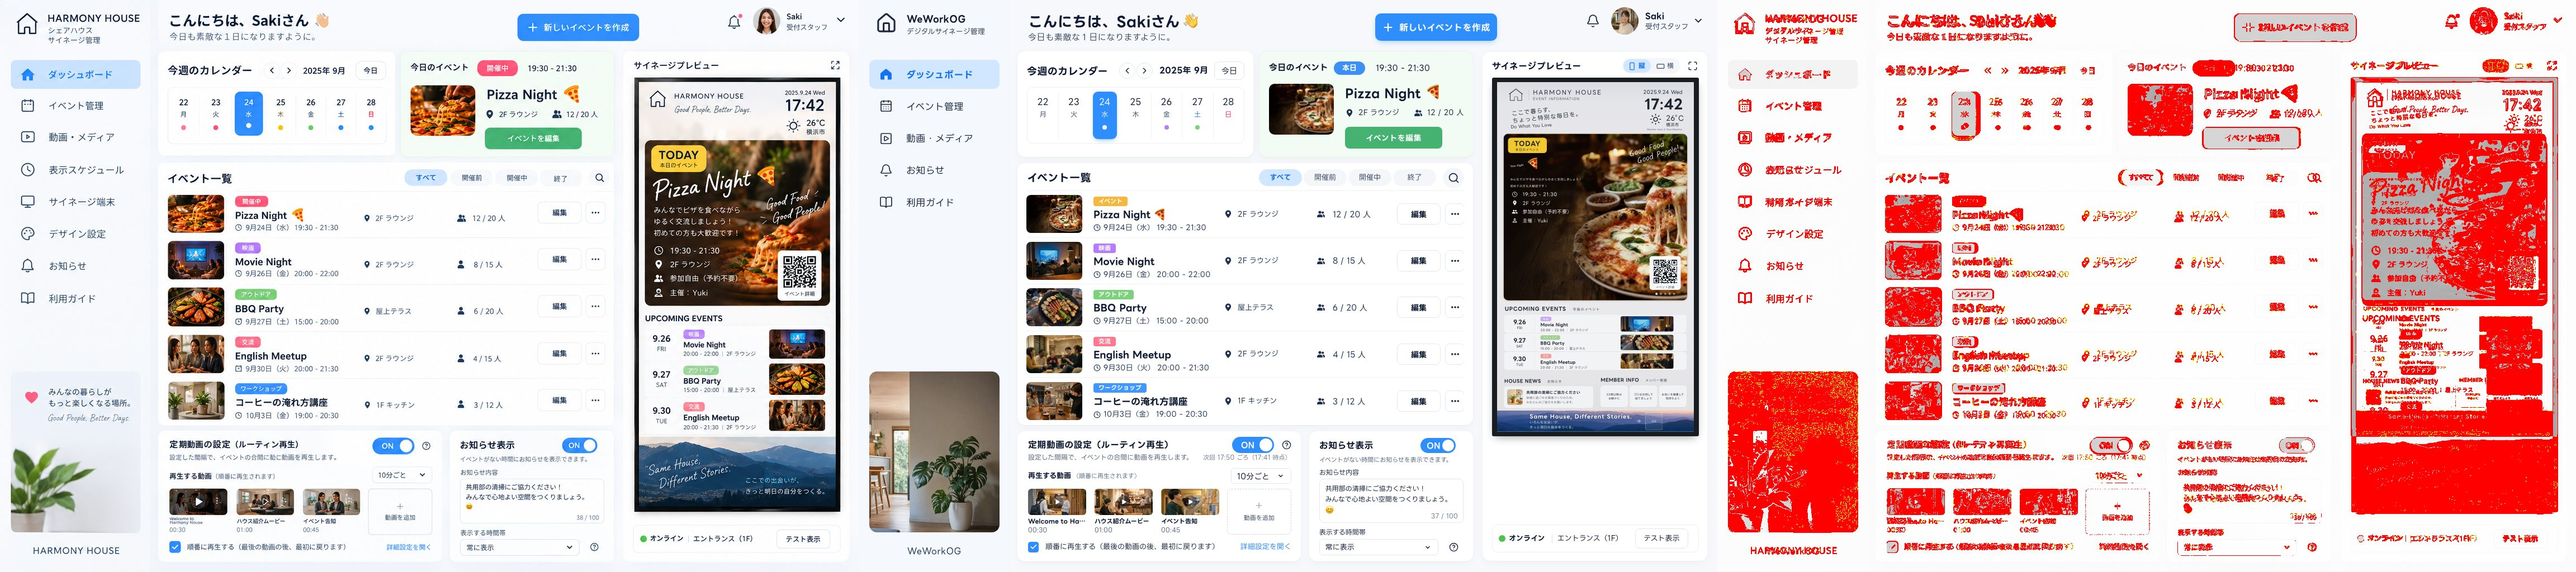
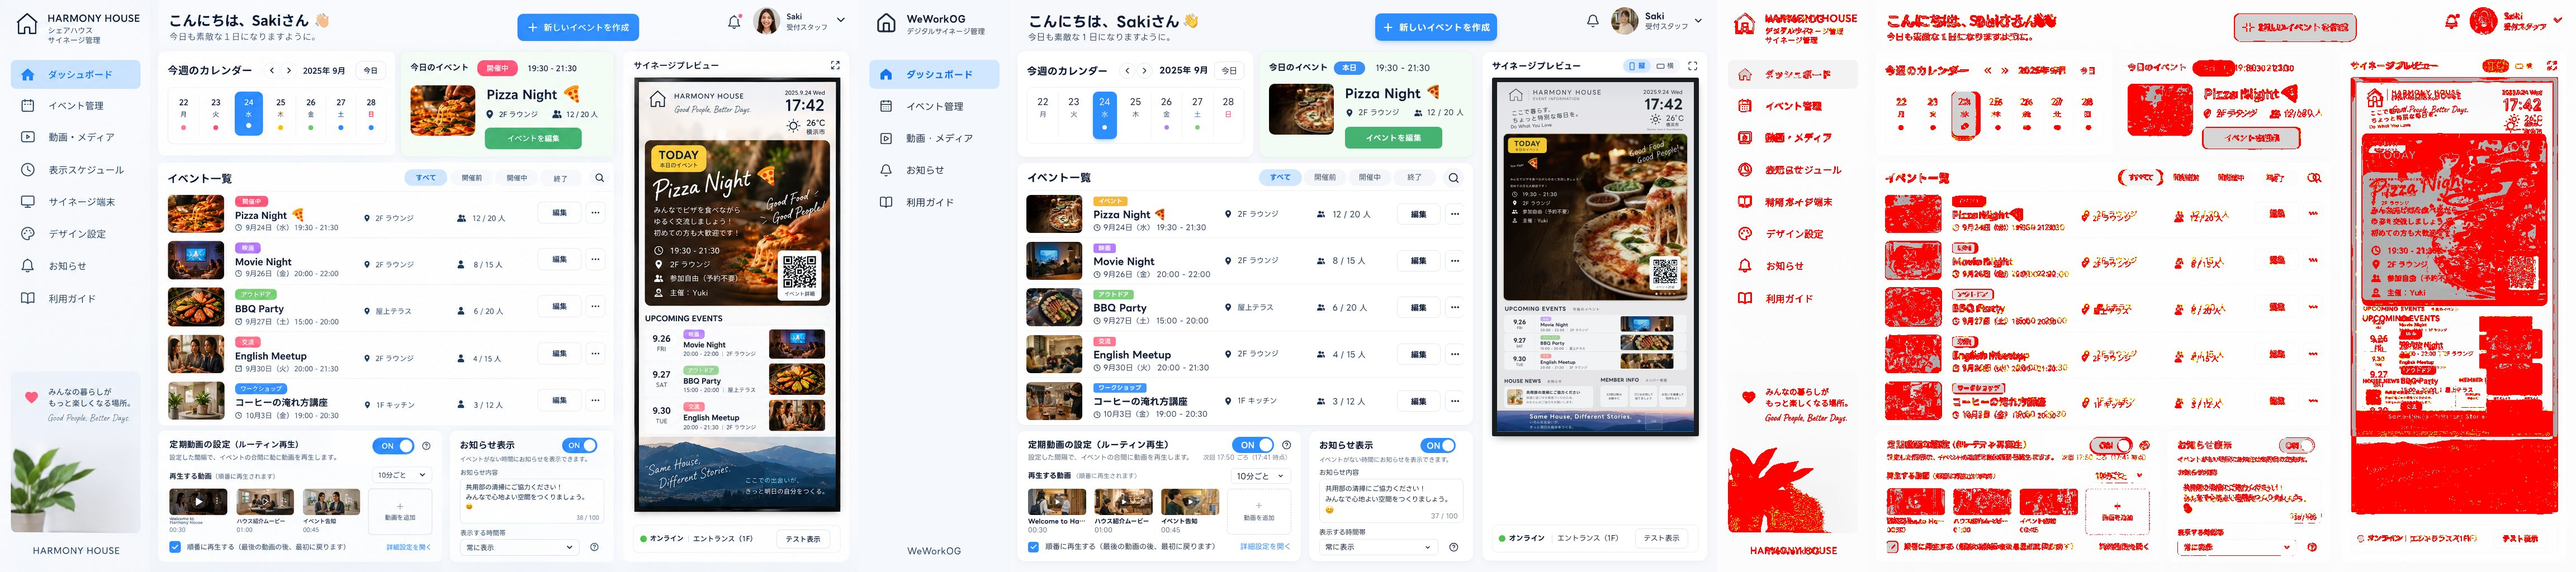
fix(admin): サイドバーの「WeWorkOG」の上の写真を外す（ユーザー指示）
サイドバー下の写真のカード（植物の写真）を外し、写真の URL（ShellData.sidebarImageUrl）と
使わなくなった public/images/sidebar-plant.jpg も消す。「WeWorkOG」は margin-top: auto で下端に置いたまま。

- モック比較（docs/design-diff）を更新: 管理画面 19.8%

Claude-Session: https://claude.ai/code/session_01LMTPq9qGpnwyhdhCgSV7Zk

Changed region(s): [[0.3125, 0.625, 0.4062, 0.9375], [0.6562, 0.625, 0.7188, 0.9375]]

diff --git a/components/admin/admin.module.css b/components/admin/admin.module.css
@@ -143,24 +143,9 @@
   stroke-width: 1.7;
 }
 
-.sideCard {
-  position: relative;
-  margin-top: auto;
-  height: 288px;
-  border-radius: 14px;
-  overflow: hidden;
-  background: linear-gradient(180deg, #eef3fa 0%, #eef3fa 55%, #e3e6ec 100%);
-}
-
-.sideCardImage {
-  position: absolute;
-  inset: 0;
-  width: 100%;
-  height: 100%;
-  object-fit: cover;
-}
-
+/* サイドバーの下端（写真のカードは 2026-09-25 ユーザー指示で削除。下端へ寄せるのはこの行の margin-top） */
 .sideFooter {
+  margin-top: auto;
   height: 71px;
   padding-top: 23px;
   text-align: center;

diff --git a/components/admin/admin-shell.tsx b/components/admin/admin-shell.tsx
@@ -34,12 +34,6 @@ export function AdminShell({
           </div>
         </div>
         <SidebarNav role={shell.user.role} currentPath={currentPath} />
-        <div className={styles.sideCard}>
-          {shell.sidebarImageUrl ? (
-            // eslint-disable-next-line @next/next/no-img-element
-            <img className={styles.sideCardImage} src={shell.sidebarImageUrl} alt="" />
-          ) : null}
-        </div>
         <p className={styles.sideFooter}>{ADMIN_BRAND}</p>
       </aside>
 

diff --git a/app/admin/_components/load-dashboard.ts b/app/admin/_components/load-dashboard.ts
@@ -35,8 +35,6 @@ export async function loadShell(db: Db, user: AuthUser, now: number): Promise<Sh
             ? `端末「${d.name}」と通信できていません`
             : `端末「${d.name}」の表示に異常があります`,
       })),
-    // サイドバー下のカードの写真（管理画面の固定の飾り。GPT Image 2 で生成）
-    sidebarImageUrl: "/images/sidebar-plant.jpg",
   };
 }
 

diff --git a/components/admin/dashboard-types.ts b/components/admin/dashboard-types.ts
@@ -26,8 +26,6 @@ export type ShellAlert = { id: string; message: string };
 export type ShellData = {
   user: ShellUser;
   alerts: ShellAlert[];
-  /** サイドバー下のカードの写真。無ければ写真なしで描く */
-  sidebarImageUrl: string | null;
 };
 
 /** 表示の業務規則（lib/display-rules.ts）をそのまま使えるよう SignageEvent に画像 URL を足した形 */

diff --git a/app/dev/dashboard/fixture.ts b/app/dev/dashboard/fixture.ts
@@ -95,7 +95,6 @@ export function fixtureShell(role: Role): ShellData {
   return {
     user: { name: "Saki", role, avatarUrl: photo("avatar") },
     alerts: [],
-    sidebarImageUrl: photo("sidebar-plant"),
   };
 }
 
